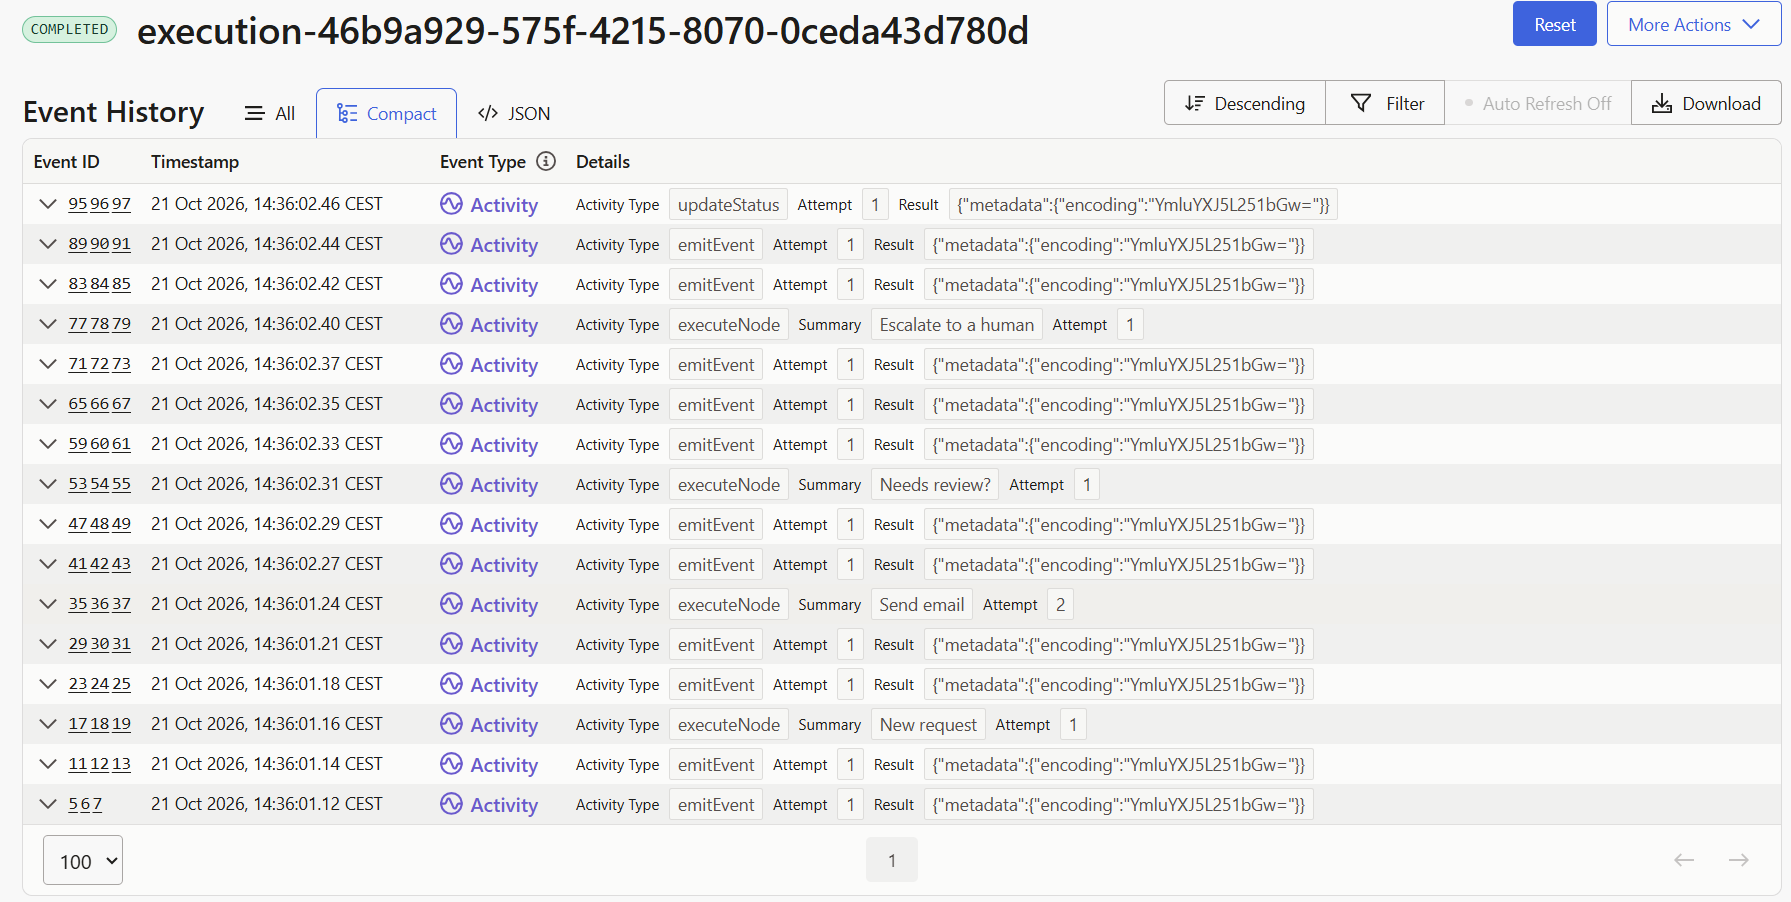
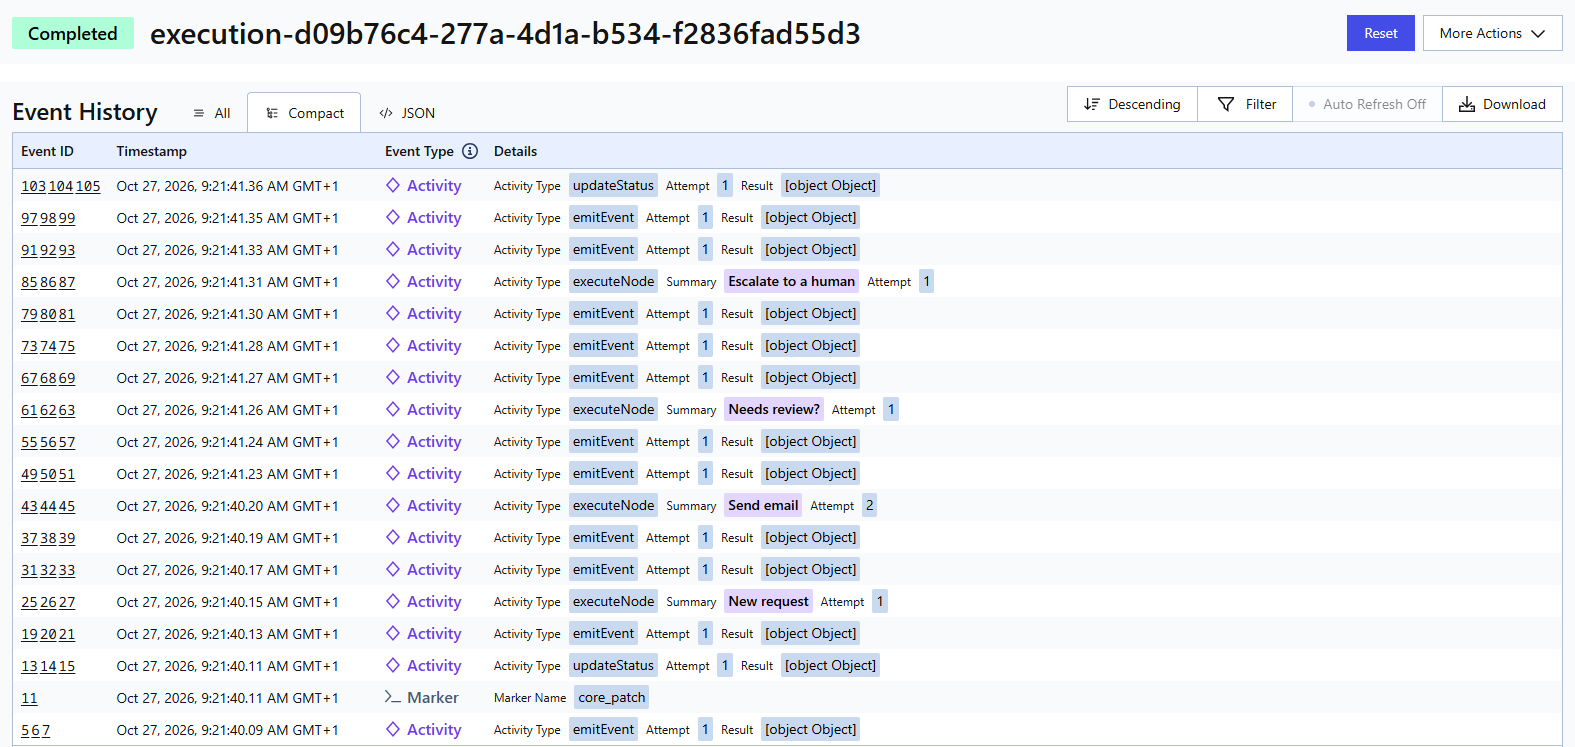
docs(temporal): target SDK 4.0 in the guide and the sample editor
SDK 4.0 removes the OptionalAppBarControls slot, so a decorator on it renders
nothing and the sample's Run and Reset buttons would vanish. Both buttons and
the guide's Run button are now mounted through OptionalAppChildren and placed
in the editor header with EditorHeaderControlsContent. The guide asks for SDK
4.x, and the guide, the sample README and a CSS comment say editor header and
properties panel instead of app bar and Properties bar.

Both screenshots are retaken: the editor on SDK 4.0, where Run and Reset sit
before the language selector, and the Event History of a temporal 0.3.0 run,
which shows the updateStatus at the start and the core_patch marker. The guide
explains that marker in one sentence.

The sample editor pins @workflowbuilder/sdk 4.0.0, which is not on npm yet.
editor/package-lock.json still resolves 3.0.0: npm install in editor/ updates
it once 4.0.0 is published, and npm ci fails until then.

Checked against builds of main (sdk and temporal): editor typecheck and vite
build, the guide's Run button snippet, and runs from the editor in Chrome and
headless Chrome with no SDK warnings in the console. Reset still puts the
shipped diagram back and it survives a reload under 4.0's save of unsaved
changes only.

Changed region(s): [[0.0, 0.0, 0.9956, 1.0], [0.6533, 0.0, 0.9956, 0.1847]]

diff --git a/examples/workflow-builder-temporal/editor/src/execution/run-button.tsx b/examples/workflow-builder-temporal/editor/src/execution/run-button.tsx
@@ -1,31 +1,34 @@
 import { PlayIcon } from '@phosphor-icons/react';
+import { EditorHeaderControlsContent } from '@workflowbuilder/sdk';
 
 import { runFromCanvas } from './run';
 import { isRunFailure, useRunStore } from './run-store';
 
-// Mounted in the SDK's OptionalAppBarControls slot. Only the button lives here: the slot grows
-// under the centred diagram title, so the run's status sits in the run panel instead.
+// Mounted through the SDK's OptionalAppChildren slot and shown in the editor header. Only the
+// button lives there; the run's status sits in the run panel.
 export function RunButton() {
   const phase = useRunStore((state) => state.phase);
   const busy = phase === 'starting' || phase === 'running';
 
   return (
-    <div className="run-controls">
-      <button
-        type="button"
-        className="run-button"
-        title="Run the diagram on Temporal"
-        disabled={busy}
-        onClick={() => void runFromCanvas()}
-      >
-        <PlayIcon size={16} weight="fill" />
-        {busy ? 'Running…' : 'Run'}
-      </button>
-      {/* Mounted while idle too: screen readers announce changes to a live region, not its arrival.
-          A failure is announced by its snackbar, so it is left out here. */}
-      <span role="status" className="visually-hidden">
-        {phase === 'idle' || isRunFailure(phase) ? '' : phase}
-      </span>
-    </div>
+    <EditorHeaderControlsContent>
+      <div className="run-controls">
+        <button
+          type="button"
+          className="run-button"
+          title="Run the diagram on Temporal"
+          disabled={busy}
+          onClick={() => void runFromCanvas()}
+        >
+          <PlayIcon size={16} weight="fill" />
+          {busy ? 'Running…' : 'Run'}
+        </button>
+        {/* Mounted while idle too: screen readers announce changes to a live region, not its arrival.
+            A failure is announced by its snackbar, so it is left out here. */}
+        <span role="status" className="visually-hidden">
+          {phase === 'idle' || isRunFailure(phase) ? '' : phase}
+        </span>
+      </div>
+    </EditorHeaderControlsContent>
   );
 }

diff --git a/examples/workflow-builder-temporal/editor/src/reset/reset-button.tsx b/examples/workflow-builder-temporal/editor/src/reset/reset-button.tsx
@@ -1,12 +1,13 @@
 import { ArrowCounterClockwiseIcon } from '@phosphor-icons/react';
-import { setStoreEdges, setStoreNodes, useFitView } from '@workflowbuilder/sdk';
+import { EditorHeaderControlsContent, setStoreEdges, setStoreNodes, useFitView } from '@workflowbuilder/sdk';
 
 import { defaultDiagram } from '../diagram';
 import { runCleared, useRunStore } from '../execution/run-store';
 
 const CONFIRMATION = 'Discard the diagram on the canvas and load the one this sample ships with?';
 
-// Mounted in the SDK's OptionalAppBarControls slot, beside the Run button.
+// Mounted through the SDK's OptionalAppChildren slot and shown in the editor header, beside the
+// Run button.
 export function ResetButton() {
   const phase = useRunStore((state) => state.phase);
   const fitView = useFitView();
@@ -24,9 +25,11 @@ export function ResetButton() {
   // The editor keeps the canvas in localStorage and the SDK saves it when the tab closes, so
   // replacing the store is enough: the next visit opens the diagram this put back.
   return (
-    <button type="button" className="reset-button" disabled={busy} onClick={reset}>
-      <ArrowCounterClockwiseIcon size={16} />
-      Reset
-    </button>
+    <EditorHeaderControlsContent>
+      <button type="button" className="reset-button" disabled={busy} onClick={reset}>
+        <ArrowCounterClockwiseIcon size={16} />
+        Reset
+      </button>
+    </EditorHeaderControlsContent>
   );
 }

diff --git a/examples/workflow-builder-temporal/editor/src/execution/plugin.ts b/examples/workflow-builder-temporal/editor/src/execution/plugin.ts
@@ -7,11 +7,9 @@ import { RunButton } from './run-button';
 import { RunPanel } from './run-panel';
 
 export function executionPlugin(): void {
-  registerComponentDecorator('OptionalAppBarControls', {
-    content: RunButton,
-    place: 'before',
-    name: 'run-on-temporal',
-  });
+  // OptionalAppChildren mounts RunButton once; EditorHeaderControlsContent inside it puts the button
+  // in the editor header.
+  registerComponentDecorator('OptionalAppChildren', { content: RunButton, name: 'run-on-temporal' });
   registerComponentDecorator('OptionalAppChildren', { content: RunPanel, name: 'run-panel' });
   registerComponentDecorator('OptionalNodeContent', { content: NodeRunMarker, place: 'after', name: 'run-markers' });
 }

diff --git a/examples/workflow-builder-temporal/editor/src/reset/plugin.ts b/examples/workflow-builder-temporal/editor/src/reset/plugin.ts
@@ -5,9 +5,6 @@ import './reset.css';
 import { ResetButton } from './reset-button';
 
 export function resetPlugin(): void {
-  registerComponentDecorator('OptionalAppBarControls', {
-    content: ResetButton,
-    place: 'before',
-    name: 'reset-diagram',
-  });
+  // Registered after the run plugin's button, so it stands to the right of Run in the editor header.
+  registerComponentDecorator('OptionalAppChildren', { content: ResetButton, name: 'reset-diagram' });
 }

diff --git a/examples/workflow-builder-temporal/editor/src/execution/execution.css b/examples/workflow-builder-temporal/editor/src/execution/execution.css
@@ -34,7 +34,7 @@
   white-space: nowrap;
 }
 
-/* Lined up with the SDK's Nodes Library and Properties bars: same top, height, border and radius. */
+/* Lined up with the SDK's Nodes Library and Properties panels: same top, height, border and radius. */
 .run-panel {
   position: fixed;
   top: 6rem;

diff --git a/examples/workflow-builder-temporal/README.md b/examples/workflow-builder-temporal/README.md
@@ -122,7 +122,7 @@ While the run is going, the button reads **Running…**. Each node shows a spinn
 
 Each run draws an amount between 1 and 200 and sends it as the trigger payload. The decision node routes on it, so about half the runs take each branch: run it a few times and the grey node swaps sides.
 
-A small run panel appears below the app bar, in line with the Nodes Library and Properties bars. It shows the run's status (Starting, Running, Completed, Failed, Cancelled, Incomplete, or Error) and a **Temporal UI** link to the run, and it stays until the next run or a **Reset**. If something goes wrong, a snackbar shows the message and stays until you close it, start another run or press **Reset**: the bridge cannot be reached or rejects the request, the event stream is lost, or the run ends failed, cancelled or incomplete. When the run exists, the snackbar also has an **Open in Temporal UI** button. A completed run shows no snackbar.
+A small run panel appears below the editor header, in line with the Nodes Library and Properties panels. It shows the run's status (Starting, Running, Completed, Failed, Cancelled, Incomplete, or Error) and a **Temporal UI** link to the run, and it stays until the next run or a **Reset**. If something goes wrong, a snackbar shows the message and stays until you close it, start another run or press **Reset**: the bridge cannot be reached or rejects the request, the event stream is lost, or the run ends failed, cancelled or incomplete. When the run exists, the snackbar also has an **Open in Temporal UI** button. A completed run shows no snackbar.
 
 Terminal 2 prints every event the store receives, the same lines shown in [Without a browser](#without-a-browser).
 
@@ -198,7 +198,7 @@ Eight places carry the whole integration: six in the Worker, two in the editor. 
 5. [`worker/src/store.ts`](worker/src/store.ts) implements the store port: where events and status changes land. Here they go to the terminal and to the editor's event stream. In your application they go to a database; the port is the same. The first terminal status a run reaches is final: a late `running` or `waiting`, or a second terminal status, can still arrive and is dropped.
 6. [`worker/src/to-definition.ts`](worker/src/to-definition.ts) turns the editor's snapshot into the plugin's `WorkflowDefinition`. A node is the run's start when its data carries `isStartNode: true`, which the editor copies from the palette item on drop. The plugin knows nothing about React Flow; this file is the only place that translates between the two formats.
 7. [`editor/src/nodes/`](editor/src/nodes/) holds the palette items. A palette item's `type` is the key of its executor in `worker/src/executors.ts`. The trigger sets `isStartNode: true` and declares an `outputSchema`, so a decision node's condition editor offers `amount` and `customer` in its variable picker. The decision node is built on the SDK's decision template, which gives it the branches you edit on the node and in the properties panel.
-8. [`editor/src/execution/`](editor/src/execution/) is the run plugin. It puts the **Run** button in the SDK's `OptionalAppBarControls` slot, the run panel in `OptionalAppChildren` and the node markers in `OptionalNodeContent`, and raises an error snackbar with `showSnackbar()` when a run fails. On **Run** it takes the canvas with `getStoreDataForIntegration()`, posts it to the bridge with the run's trigger payload, and follows the run's events over Server-Sent Events.
+8. [`editor/src/execution/`](editor/src/execution/) is the run plugin. It mounts the **Run** button and the run panel through the SDK's `OptionalAppChildren` slot, places the button in the editor header with `EditorHeaderControlsContent`, puts the node markers in `OptionalNodeContent`, and raises an error snackbar with `showSnackbar()` when a run fails. On **Run** it takes the canvas with `getStoreDataForIntegration()`, posts it to the bridge with the run's trigger payload, and follows the run's events over Server-Sent Events.
 
 [`editor/src/app.tsx`](editor/src/app.tsx) mounts the editor with these plugins and an `isValidConnection` that refuses any edge into the start node.
 
